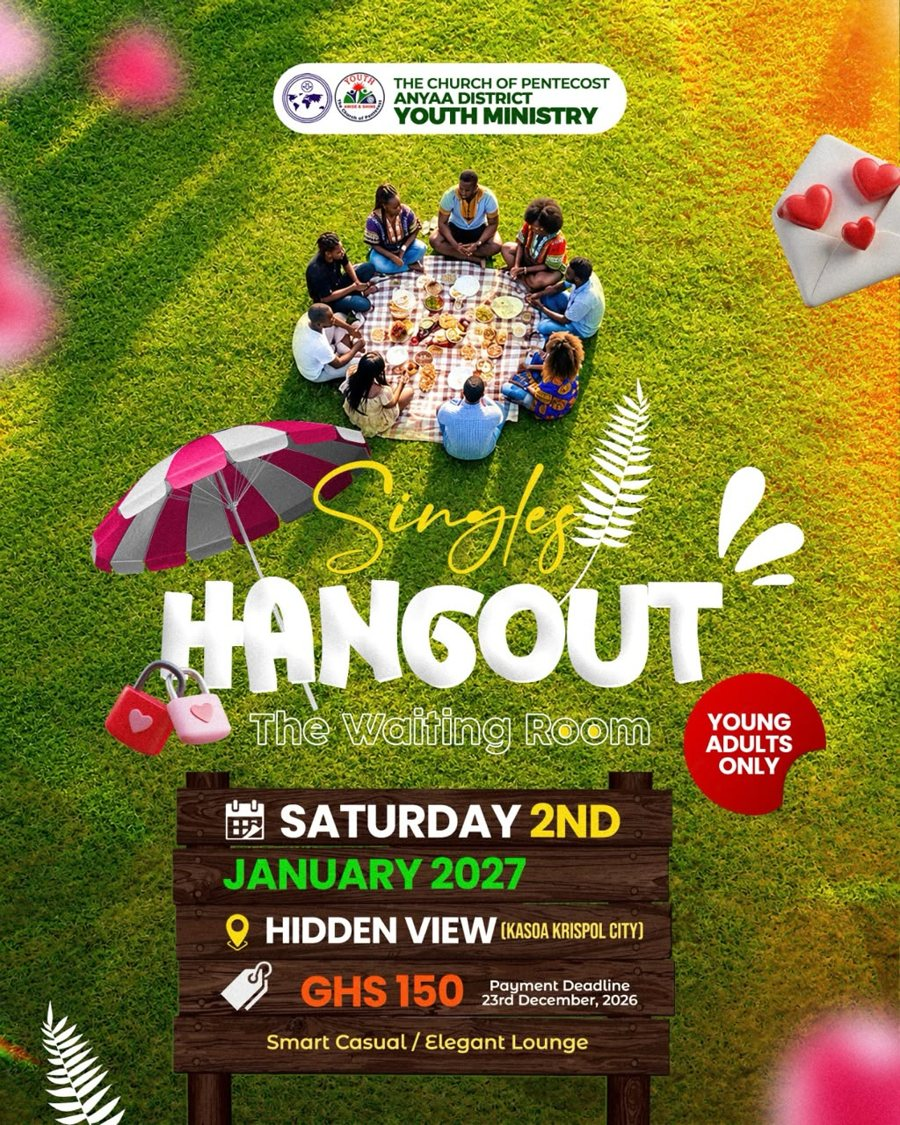
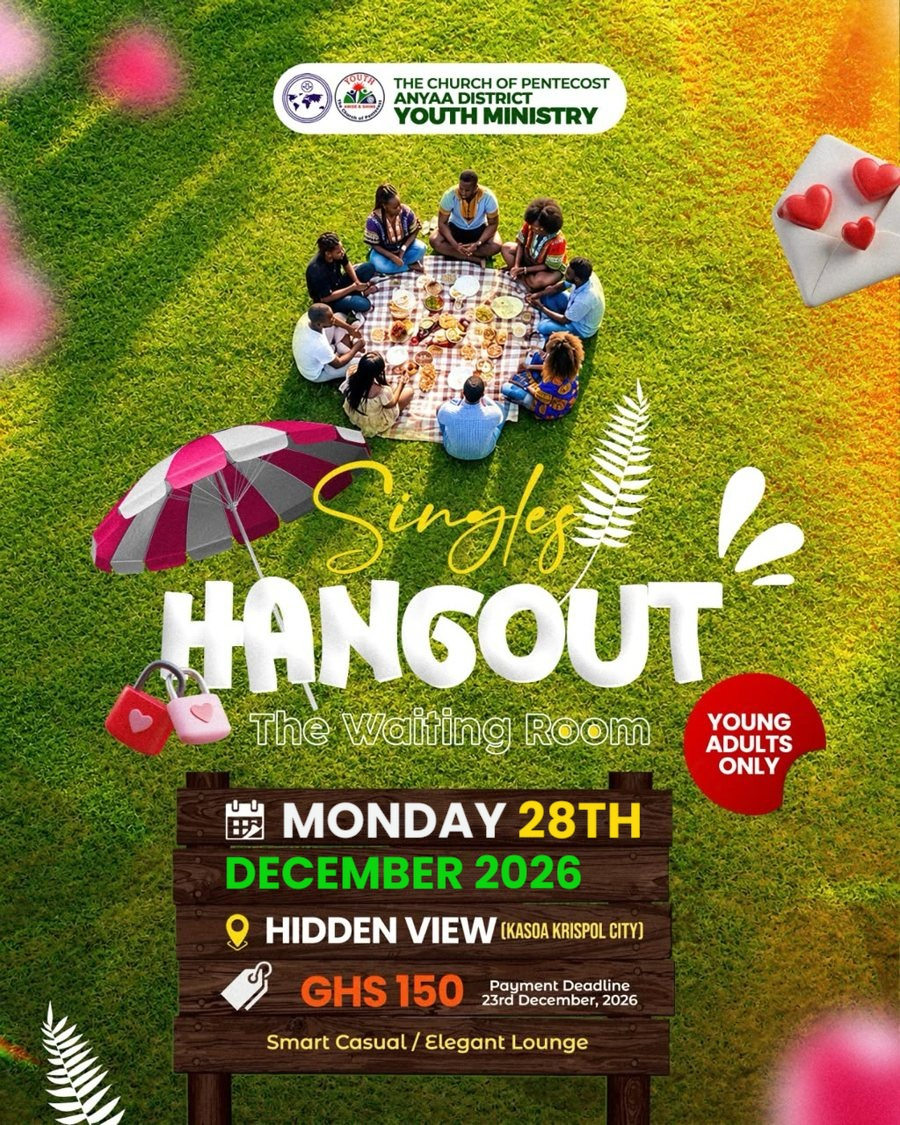
Add files via upload

Changed region(s): [[0.2489, 0.7156, 0.7156, 0.8089]]

diff --git a/register.html b/register.html
@@ -1,0 +1,112 @@
+<!DOCTYPE html><html lang="en"><head><meta charset="utf-8"><title>Register – The Waiting Room</title>
+<meta name="viewport" content="width=device-width, initial-scale=1"><meta name="theme-color" content="#14420e">
+<link rel="stylesheet" href="style.css?v=3"><style>
+.vs{max-width:560px;margin:-20px auto 0;padding:0 16px}
+.vs-card{background:linear-gradient(145deg,#5a3722,#2a1a10);color:#fff;border-radius:22px;padding:22px 20px;text-align:center;box-shadow:0 10px 28px #0003;min-height:150px;display:flex;flex-direction:column;justify-content:center}
+.vs-card q{display:block;font:italic 1.1rem/1.5 Georgia,serif;transition:opacity .5s}.vs-card q::before,.vs-card q::after{content:""}
+.vs-card cite{display:block;margin-top:10px;color:var(--y);font-style:normal;font-weight:700;font-size:.9rem;transition:opacity .5s}
+.vs-card.f q,.vs-card.f cite{opacity:0}
+.back{display:inline-block;color:#fff;text-decoration:none;font-size:.9rem;margin-bottom:8px;opacity:.9}
+#dbBtn{position:fixed;right:16px;bottom:16px;z-index:20;border:0;border-radius:999px;padding:12px 18px;font:700 .95rem "Poppins",system-ui,sans-serif;color:#fff;background:linear-gradient(135deg,var(--o),var(--r));box-shadow:0 8px 20px #0005;cursor:pointer}
+#db{position:fixed;right:16px;bottom:16px;z-index:30;width:min(94vw,360px);height:min(80vh,500px);background:var(--card);color:var(--tx);border:1px solid var(--ln);border-radius:20px;box-shadow:0 14px 40px #0006;display:flex;flex-direction:column;overflow:hidden}
+#db header{background:var(--g1);color:#fff;padding:12px 14px;display:flex;justify-content:space-between;align-items:center}
+#db header small{display:block;opacity:.8;font-size:.75rem}#db header button{background:none;border:0;color:#fff;font-size:1.4rem;cursor:pointer}
+#msgs{flex:1;overflow-y:auto;padding:12px;display:flex;flex-direction:column;gap:8px}
+.m{max-width:86%;padding:8px 12px;border-radius:14px;font-size:.92rem;white-space:pre-line}
+.m.b{background:var(--bg);border:1px solid var(--ln);align-self:flex-start}.m.u{background:var(--g2);color:#fff;align-self:flex-end}
+#chips{display:flex;gap:6px;flex-wrap:wrap;padding:0 12px 8px}
+#chips button{border:1px solid var(--g2);background:none;color:var(--g2);border-radius:999px;padding:4px 10px;font-size:.78rem;cursor:pointer}
+#cf{display:flex;gap:6px;padding:10px;border-top:1px solid var(--ln)}#cf input{flex:1;padding:10px;border:1.5px solid var(--ln);border-radius:12px;font:inherit;background:var(--bg);color:var(--tx);min-width:0}
+</style></head><body>
+<section class="hero" style="padding-bottom:50px"><a class="back" href="index.html">← Back to main page</a>
+<h1 style="margin-top:6px">Register for <span>The Waiting Room</span></h1><p>Monday 28th December 2026 · Hidden View (Kasoa Krispol City)</p></section>
+<div class="vs"><div class="vs-card" id="vc"><q id="vq"></q><cite id="vr"></cite></div></div>
+<main class="wrap">
+<h2>Register</h2>
+<div class="card" id="closed" hidden><b>Registration has closed.</b><p class="hint">Thank you for your interest. Please contact your local leadership.</p></div>
+<div class="card" id="formCard"><form id="f" novalidate>
+<input class="hp" type="text" id="website" tabindex="-1" autocomplete="off" aria-hidden="true">
+<label for="name">Full name <i>*</i></label><input type="text" id="name" placeholder="First and last name" autocomplete="name">
+<label for="phone">Phone number (WhatsApp) <i>*</i></label><input type="tel" id="phone" placeholder="e.g. 0241234567" autocomplete="tel"><div class="hint">Used for event updates and payment verification.</div>
+<label>Age range / category <i>*</i></label>
+<label class="opt"><input type="radio" name="age" value="Young Adult (20–25)">Young Adult (20–25)</label>
+<label class="opt"><input type="radio" name="age" value="Young Adult (26–35)">Young Adult (26–35)</label>
+<label class="opt"><input type="radio" name="age" value="Young Adult (36+)">Young Adult (36+)</label>
+<label for="church">Local church / assembly <i>*</i></label><select id="church"><option value="">Choose</option><option>Central</option><option>Maranatha</option><option>Nsumfa</option><option>Berea</option><option>Bethel</option><option>NIC</option><option>External</option></select>
+<label for="diet">Dietary restrictions / allergies</label><input type="text" id="diet" maxlength="200" placeholder="Any specific dietary needs for the meal">
+<div class="pay"><b>Payment instructions</b><br>Send the registration fee of <b>GHS 150</b> to your local leadership. Slots are confirmed only upon receipt of payment.</div>
+<label class="opt"><input type="checkbox" id="ack">I have read the payment instruction <i>*</i></label>
+<div class="err" id="err" role="alert"></div><button class="btn" id="go" style="width:100%">Submit registration</button></form></div>
+<div class="card ok" id="done" hidden><div class="tick">🎉</div><h2 style="margin:0" id="hi"></h2><p>You’re on the list! Keep your reference code:</p><div class="ref" id="ref"></div>
+<span class="badge" id="st">Awaiting payment</span><p class="hint">This status updates live once your leader confirms payment.</p><a class="btn sm g" href="index.html">Back to main page</a></div>
+</main>
+<footer>The Church of Pentecost · Anyaa District Youth Ministry</footer>
+
+<button id="dbBtn">💬 Ask Deborah</button>
+<div id="db" hidden><header><div><b>Deborah</b><small>Ask me about the programme</small></div><button id="dbX" aria-label="Close">×</button></header>
+<div id="msgs"></div><div id="chips"></div>
+<form id="cf"><input id="ci" placeholder="Type your question…" autocomplete="off"><button class="btn sm" type="submit">Send</button></form></div>
+<script>
+const $=id=>document.getElementById(id);
+let ref=null;try{ref=localStorage.getItem('wr_ref')}catch(e){}
+/* Bible verses (KJV) */
+const V=[["Love suffereth long, and is kind; love envieth not; love vaunteth not itself, is not puffed up.","1 Corinthians 13:4"],
+["Many waters cannot quench love, neither can the floods drown it.","Song of Solomon 8:7"],
+["We love him, because he first loved us.","1 John 4:19"],
+["Two are better than one; because they have a good reward for their labour.","Ecclesiastes 4:9"],
+["Whoso findeth a wife findeth a good thing, and obtaineth favour of the LORD.","Proverbs 18:22"],
+["And above all these things put on charity, which is the bond of perfectness.","Colossians 3:14"],
+["Let all your things be done with charity.","1 Corinthians 16:14"],
+["Delight thyself also in the LORD; and he shall give thee the desires of thine heart.","Psalm 37:4"],
+["Be still, and know that I am God.","Psalm 46:10"],
+["Beloved, let us love one another: for love is of God.","1 John 4:7"]];
+let vi=Math.floor(Math.random()*V.length);
+function showV(){$('vq').textContent='“'+V[vi][0]+'”';$('vr').textContent=V[vi][1]}
+showV();setInterval(()=>{$('vc').classList.add('f');setTimeout(()=>{vi=(vi+1)%V.length;showV();$('vc').classList.remove('f')},500)},7000);
+/* Registration */
+async function refresh(){
+ try{const d=await (await fetch('/api/public'+(ref?'?ref='+encodeURIComponent(ref):''),{cache:'no-store'})).json();
+  if(d.closed&&!d.me){$('formCard').hidden=true;$('closed').hidden=false}
+  if(d.me){$('formCard').hidden=true;$('closed').hidden=true;$('done').hidden=false;
+   $('hi').textContent='Thank you, '+d.me.name.split(' ')[0]+'!';$('ref').textContent=ref;
+   $('st').textContent=d.me.paid?'✅ Payment confirmed – slot secured':'Awaiting payment';$('st').className='badge'+(d.me.paid?' p':'')}
+ }catch(e){}}
+$('f').onsubmit=async e=>{e.preventDefault();const err=$('err');err.textContent='';
+ const b={name:$('name').value,phone:$('phone').value,age:(document.querySelector('input[name=age]:checked')||{}).value,church:$('church').value,diet:$('diet').value,website:$('website').value};
+ if(b.name.trim().split(/\s+/).length<2)return err.textContent='Please enter your first and last name.';
+ if(b.phone.replace(/\D/g,'').length<9)return err.textContent='Please enter a valid phone number.';
+ if(!b.age)return err.textContent='Please choose your age range.';
+ if(!b.church)return err.textContent='Please choose your local assembly.';
+ if(!$('ack').checked)return err.textContent='Please confirm you have read the payment instruction.';
+ const btn=$('go');btn.disabled=true;btn.textContent='Submitting…';
+ try{const r=await fetch('/api/register',{method:'POST',headers:{'Content-Type':'application/json'},body:JSON.stringify(b)});const d=await r.json();
+  if(!r.ok)err.textContent=d.error||'Something went wrong.';else{ref=d.ref;try{localStorage.setItem('wr_ref',ref)}catch(x){}await refresh();window.scrollTo({top:0,behavior:'smooth'})}
+ }catch(x){err.textContent='Network error. Please try again.'}
+ btn.disabled=false;btn.textContent='Submit registration'};
+refresh();setInterval(()=>{if(!document.hidden)refresh()},5000);
+/* Deborah */
+const KB=[
+[/hello|hi\b|hey|good (morning|afternoon|evening)/,"Hello! I’m Deborah 😊 Ask me anything about The Waiting Room: date, venue, cost, dress code, payment or registration."],
+[/when|date|day/,"📅 The Waiting Room is on Monday, 28th December 2026."],
+[/time|start|begin|o.?clock/,"⏰ It starts at 8:00 am."],
+[/where|venue|location|place|address|kasoa|hidden/,"📍 The venue is Hidden View (Kasoa Krispol City)."],
+[/cost|price|fee|rate|how much|ghs|150/,"🏷 The registration fee is GHS 150."],
+[/pay|momo|money|confirm|slot/,"Send the GHS 150 registration fee to your local leadership. Your slot is confirmed only once payment is received, and your status on the main page updates when your leader confirms it."],
+[/deadline|close|last day|late/,"⌛ Registration and payment close on 23rd December 2026."],
+[/dress|wear|outfit|attire|cloth/,"👗 Dress code: Smart Casual / Elegant Lounge."],
+[/who|age|eligible|allowed|married|single|audience|young|external|other church/,"The programme is for Young Adults only (age ranges 20–25, 26–35 and 36+), hosted by The Church of Pentecost, Anyaa District Youth Ministry. Members of other assemblies can register as “External”."],
+[/diet|allerg|food|eat|meal|vegetarian|halal/,"🍽 A meal is served. Please put any dietary restrictions or allergies in the “Dietary restrictions” box on the form."],
+[/regist|sign|join|form|ref|code|status/,"Fill in the form on this page. You’ll get a reference code (WR-XXXXXX), and your payment status shows on the main page when you return from the same device."],
+[/what|about|programme|program|theme|waiting room|hangout|activit/,"The Waiting Room is a Singles Hangout: an inspiring time of fellowship, connection and relaxation for young adults."],
+[/contact|call|phone|help|leader|reach/,"Please contact your local assembly leadership or the Youth Ministry for anything I can’t answer."],
+[/thank/,"You’re welcome! See you on 28th December 🌿"]];
+const CH=["When is it?","Where is it?","How much?","Dress code?","How do I pay?"];
+function add(t,c){const m=document.createElement('div');m.className='m '+c;m.textContent=t;$('msgs').appendChild(m);$('msgs').scrollTop=1e9}
+function ask(q){add(q,'u');const l=q.toLowerCase();const k=KB.find(x=>x[0].test(l));
+ setTimeout(()=>add(k?k[1]:"I’m not sure about that one. I can help with the date, time, venue, cost, payment, dress code and registration. For anything else, please contact your local leadership.",'b'),350)}
+$('chips').innerHTML=CH.map(c=>'<button type="button">'+c+'</button>').join('');
+$('chips').onclick=e=>{if(e.target.tagName==='BUTTON')ask(e.target.textContent)};
+$('cf').onsubmit=e=>{e.preventDefault();const v=$('ci').value.trim();if(!v)return;$('ci').value='';ask(v)};
+$('dbBtn').onclick=()=>{$('db').hidden=false;$('dbBtn').hidden=true;if(!$('msgs').children.length)add("Hi, I’m Deborah 👋 How can I help you with The Waiting Room?",'b')};
+$('dbX').onclick=()=>{$('db').hidden=true;$('dbBtn').hidden=false};
+</script></body></html>

diff --git a/index.html b/index.html
@@ -16,62 +16,31 @@
 </head><body>
 <section class="hero"><img src="flyer.jpg" alt="Singles Hangout – The Waiting Room flyer">
 <h1>You’re invited to <span>The Waiting Room</span></h1><p>An inspiring time of fellowship, connection and relaxation for young adults.</p>
-<a class="btn" href="#register">Register now</a></section>
+<a class="btn" id="regBtn" href="register.html">Register now</a></section>
 <div class="live"><div class="stat"><b id="nReg">–</b><small><span class="dot"></span>Registered</small></div><div class="stat"><b id="nPaid">–</b><small>Slots confirmed</small></div></div>
 <div class="cd"><div class="cd-card"><div class="cd-t">⏳ Registration closes in</div><div id="cdReg"></div><div class="cd-sep"></div><div class="cd-t">🎉 The Waiting Room starts in</div><div id="cdEv"></div></div></div>
 <main class="wrap">
 <h2>Event details</h2><div class="grid">
-<div class="d"><small>📅 Date</small><b>Saturday, 2nd January 2027</b></div><div class="d"><small>⏰ Time</small><b>8:00 am</b></div>
+<div class="d"><small>📅 Date</small><b>Monday, 28th December 2026</b></div><div class="d"><small>⏰ Time</small><b>8:00 am</b></div>
 <div class="d"><small>📍 Venue</small><b>Hidden View (Kasoa Krispol City)</b></div><div class="d"><small>🏷 Rate</small><b>GHS 150</b></div>
-<div class="d"><small>⌛ Registration deadline</small><b>28th December 2026</b></div><div class="d"><small>👗 Dress code</small><b>Smart Casual / Elegant Lounge</b></div>
+<div class="d"><small>⌛ Registration deadline</small><b>23rd December 2026</b></div><div class="d"><small>👗 Dress code</small><b>Smart Casual / Elegant Lounge</b></div>
 <div class="d wide"><small>Target audience</small><b>Young Adults Only · The Church of Pentecost, Anyaa District Youth Ministry</b></div></div>
-<h2 id="register">Register</h2>
-<div class="card" id="closed" hidden><b>Registration has closed.</b><p class="hint">Thank you for your interest. Please contact your local leadership.</p></div>
-<div class="card" id="formCard"><form id="f" novalidate>
-<input class="hp" type="text" id="website" tabindex="-1" autocomplete="off" aria-hidden="true">
-<label for="name">Full name <i>*</i></label><input type="text" id="name" placeholder="First and last name" autocomplete="name">
-<label for="phone">Phone number (WhatsApp) <i>*</i></label><input type="tel" id="phone" placeholder="e.g. 0241234567" autocomplete="tel"><div class="hint">Used for event updates and payment verification.</div>
-<label>Age range / category <i>*</i></label>
-<label class="opt"><input type="radio" name="age" value="Young Adult (20–25)">Young Adult (20–25)</label>
-<label class="opt"><input type="radio" name="age" value="Young Adult (26–35)">Young Adult (26–35)</label>
-<label class="opt"><input type="radio" name="age" value="Young Adult (36+)">Young Adult (36+)</label>
-<label for="church">Local church / assembly <i>*</i></label><select id="church"><option value="">Choose</option><option>Central</option><option>Maranatha</option><option>Nsumfa</option><option>Berea</option><option>Bethel</option><option>NIC</option><option>External</option></select>
-<label for="diet">Dietary restrictions / allergies</label><input type="text" id="diet" maxlength="200" placeholder="Any specific dietary needs for the meal">
-<div class="pay"><b>Payment instructions</b><br>Send the registration fee of <b>GHS 150</b> to your local leadership. Slots are confirmed only upon receipt of payment.</div>
-<label class="opt"><input type="checkbox" id="ack">I have read the payment instruction <i>*</i></label>
-<div class="err" id="err" role="alert"></div><button class="btn" id="go" style="width:100%">Submit registration</button></form></div>
-<div class="card ok" id="done" hidden><div class="tick">🎉</div><h2 style="margin:0" id="hi"></h2><p>You’re on the list! Keep your reference code:</p><div class="ref" id="ref"></div>
-<span class="badge" id="st">Awaiting payment</span><p class="hint">This status updates live once your leader confirms payment.</p></div>
-<h2>Who’s joining <span class="hint">(live)</span></h2><div class="card feed" id="feed"><small>Be the first to register!</small></div>
+<div class="card ok" id="mine" hidden><div class="tick">🎉</div><h2 style="margin:0" id="hi"></h2><p>You’re registered. Your reference code:</p><div class="ref" id="ref"></div><span class="badge" id="st">Awaiting payment</span><p class="hint">This status updates live once your leader confirms payment.</p></div>
+<div class="card ok" id="cta" style="margin-top:24px"><h2 style="margin:0 0 8px">Ready to join us?</h2><p class="hint">Register in under a minute, read a few verses on love, and chat with Deborah if you have questions.</p><a class="btn" href="register.html" id="cta2">Register now</a></div>
 </main>
 <footer>The Church of Pentecost · Anyaa District Youth Ministry<br><a href="admin.html">Admin</a></footer>
 <script>
 const $=id=>document.getElementById(id);
-const esc=s=>String(s==null?'':s).replace(/[&<>"]/g,c=>({'&':'&amp;','<':'&lt;','>':'&gt;','"':'&quot;'}[c]));
 let ref=null;try{ref=localStorage.getItem('wr_ref')}catch(e){}
-function ago(t){const s=Math.max(1,(Date.now()-t)/1e3|0);return s<60?'just now':s<3600?(s/60|0)+' min ago':s<86400?(s/3600|0)+' hr ago':(s/86400|0)+' d ago'}
 async function refresh(){
  try{const d=await (await fetch('/api/public'+(ref?'?ref='+encodeURIComponent(ref):''),{cache:'no-store'})).json();
   $('nReg').textContent=d.total;$('nPaid').textContent=d.paid;
-  if(d.roster.length)$('feed').innerHTML=d.roster.map(r=>'<div><span>'+esc(r.n)+'<br><small>'+esc(r.a)+'</small></span><small>'+(r.paid?'✅ confirmed · ':'')+ago(r.t)+'</small></div>').join('');
-  if(d.closed&&!d.me){$('formCard').hidden=true;$('closed').hidden=false}
-  if(d.me){$('formCard').hidden=true;$('closed').hidden=true;$('done').hidden=false;
+  if(d.me){$('cta').hidden=true;$('mine').hidden=false;
    $('hi').textContent='Thank you, '+d.me.name.split(' ')[0]+'!';$('ref').textContent=ref;
    $('st').textContent=d.me.paid?'✅ Payment confirmed – slot secured':'Awaiting payment';$('st').className='badge'+(d.me.paid?' p':'')}
+  else if(d.closed){$('cta2').hidden=true;$('regBtn').textContent='Registration closed';$('regBtn').removeAttribute('href')}
  }catch(e){}}
-$('f').onsubmit=async e=>{e.preventDefault();const err=$('err');err.textContent='';
- const b={name:$('name').value,phone:$('phone').value,age:(document.querySelector('input[name=age]:checked')||{}).value,church:$('church').value,diet:$('diet').value,website:$('website').value};
- if(b.name.trim().split(/\s+/).length<2)return err.textContent='Please enter your first and last name.';
- if(b.phone.replace(/\D/g,'').length<9)return err.textContent='Please enter a valid phone number.';
- if(!b.age)return err.textContent='Please choose your age range.';
- if(!b.church)return err.textContent='Please choose your local assembly.';
- if(!$('ack').checked)return err.textContent='Please confirm you have read the payment instruction.';
- const btn=$('go');btn.disabled=true;btn.textContent='Submitting…';
- try{const r=await fetch('/api/register',{method:'POST',headers:{'Content-Type':'application/json'},body:JSON.stringify(b)});const d=await r.json();
-  if(!r.ok)err.textContent=d.error||'Something went wrong.';else{ref=d.ref;try{localStorage.setItem('wr_ref',ref)}catch(x){}await refresh()}
- }catch(x){err.textContent='Network error. Please try again.'}
- btn.disabled=false;btn.textContent='Submit registration'};
-const REG_END=Date.UTC(2026,11,28,23,59,59),EV_START=Date.UTC(2027,0,2,8,0,0),EV_END=Date.UTC(2027,0,2,20,0,0);
+const REG_END=Date.UTC(2026,11,23,23,59,59),EV_START=Date.UTC(2026,11,28,8,0,0),EV_END=Date.UTC(2026,11,28,20,0,0);
 function box(ms){const s=Math.floor(ms/1e3),d=Math.floor(s/86400),h=Math.floor(s%86400/3600),m=Math.floor(s%3600/60),x=s%60;
  return '<div class="cd-row">'+[[d,'Days'],[h,'Hours'],[m,'Mins'],[x,'Secs']].map(a=>'<div class="cd-box"><b>'+String(a[0]).padStart(2,'0')+'</b><small>'+a[1]+'</small></div>').join('')+'</div>'}
 function tick(){const n=Date.now();

diff --git a/_lib.js b/_lib.js
@@ -4,8 +4,8 @@ const TOK = process.env.KV_REST_API_TOKEN || process.env.UPSTASH_REDIS_REST_TOKE
 const KEY = 'wr:regs';
 const ASSEMBLIES = ['Central', 'Maranatha', 'Nsumfa', 'Berea', 'Bethel', 'NIC', 'External'];
 const AGES = ['Young Adult (20–25)', 'Young Adult (26–35)', 'Young Adult (36+)'];
-// Registration closes end of 28 Dec 2026 (Ghana = UTC)
-const DEADLINE = Date.UTC(2026, 11, 28, 23, 59, 59);
+// Registration closes end of 23 Dec 2026 (Ghana = UTC)
+const DEADLINE = Date.UTC(2026, 11, 23, 23, 59, 59);
 
 async function redis(...cmd) {
   if (!URL_ || !TOK) throw new Error('Database not connected');
